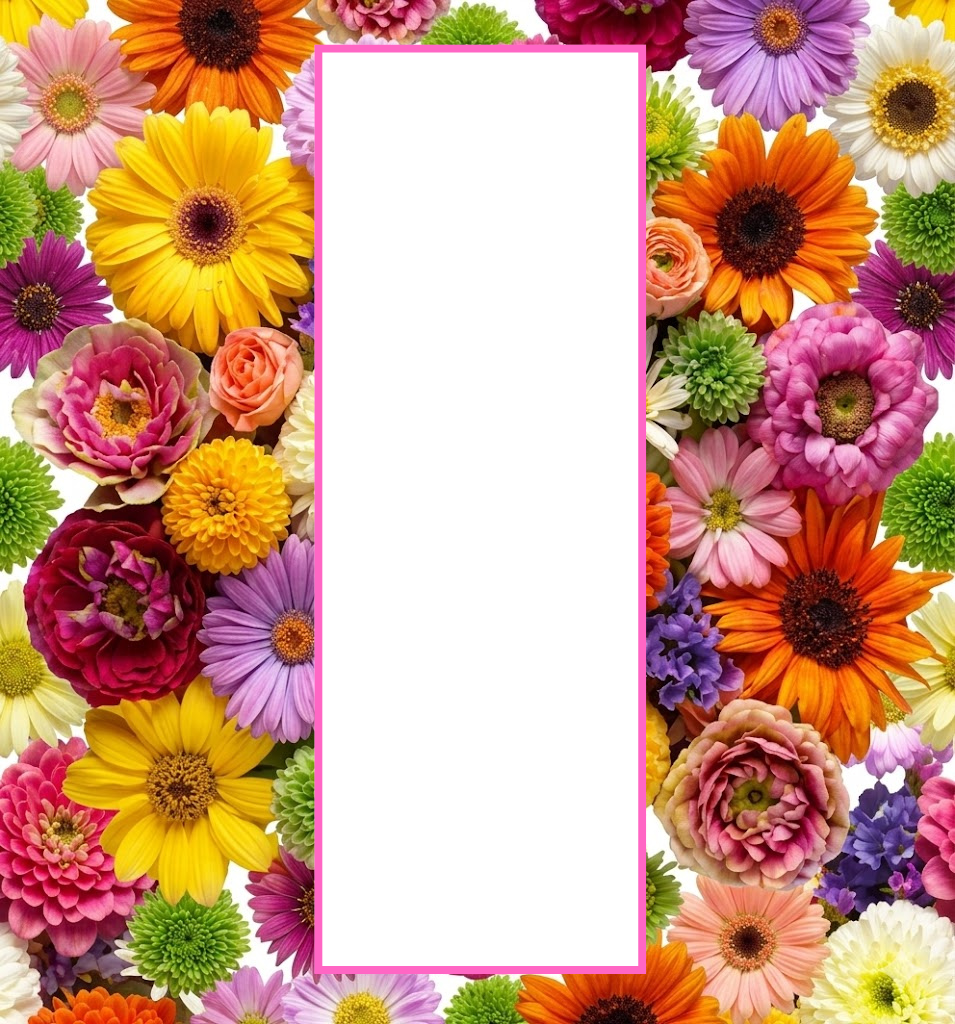
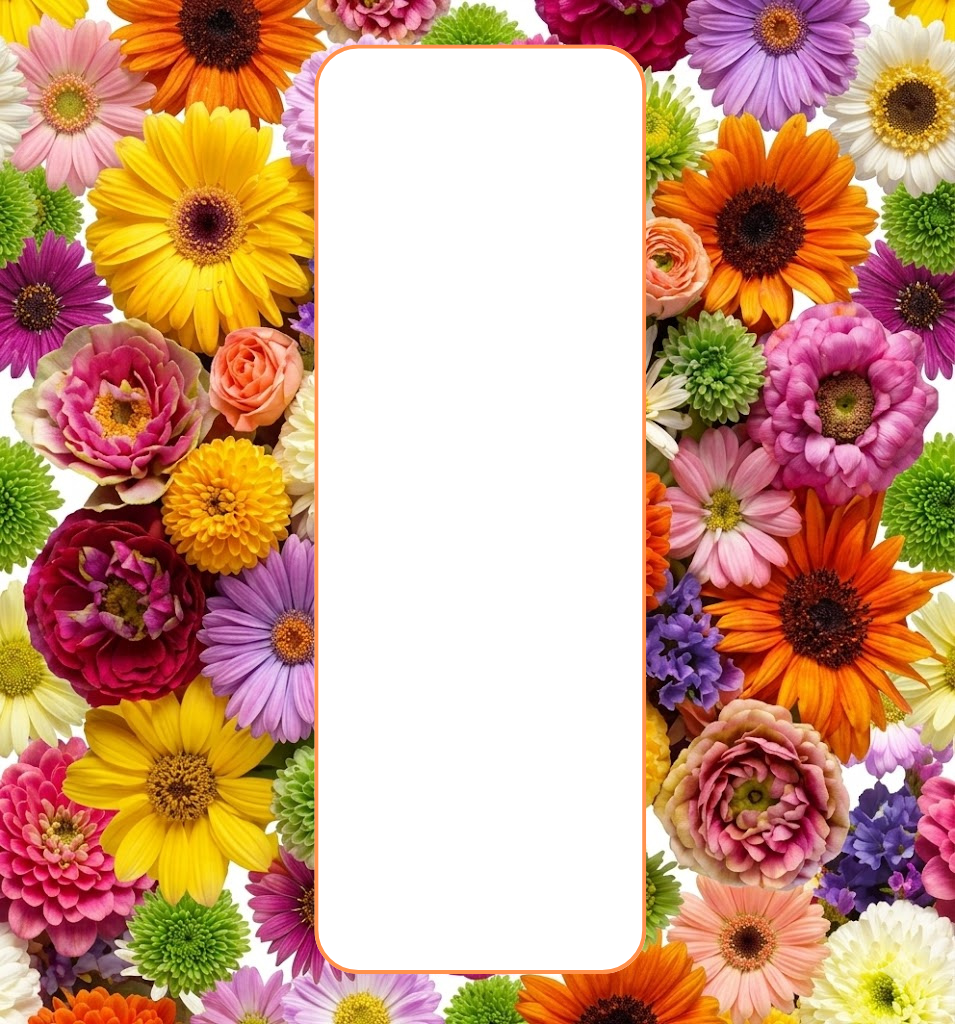
updated css color

Changed region(s): [[0.3037, 0.0312, 0.6984, 0.9688]]

diff --git a/index.html b/index.html
@@ -114,7 +114,7 @@
 		<div class="wrapper">
 
 			<div class="design-selection" id="design-selection">
-				<h3 class="select"><img src="./211/selectadesign.jpg"></h3>
+				<h3 class="select"><img src="./211/selectadesign.png"></h3>
 				<nav role="navigation">
 					<ul>
 					<li>
@@ -138,7 +138,7 @@
 			</div>
 
 			<div class="design-archives" id="design-archives">
-				<h3 class="archives"><img src="./211/archives.jpg"></h3>
+				<h3 class="archives"><img src="./211/archives.png"></h3>
 				<nav role="navigation">
 					<ul>
 						<li class="next">
@@ -155,7 +155,7 @@
 			</div>
 
 			<div class="zen-resources" id="zen-resources">
-				<h3 class="resources"><img src="./211/resources.jpg"></h3>
+				<h3 class="resources"><img src="./211/resources.png"></h3>
 				<ul>
 					<li class="view-css">
 						<a href="/211/211.css" title="View the source CSS file of the currently-viewed design.">

diff --git a/211/211.css b/211/211.css
@@ -58,7 +58,7 @@ background-color: transparent;
 }
 
 header {
-margin-top: 105px;
+margin-top: 125px;
 background: transparent url(./header.jpg) no-repeat center top;
 border:0px dotted #999999;
 width:630px;
@@ -177,7 +177,7 @@ position: absolute;
 left:160px; 
 right:auto; 
 top: 400px;
-padding:0 0 0 0;
+padding: 0 0 0 0;
 margin-left: 270px;
 width: 180px;
 border:0px dotted #666666;
